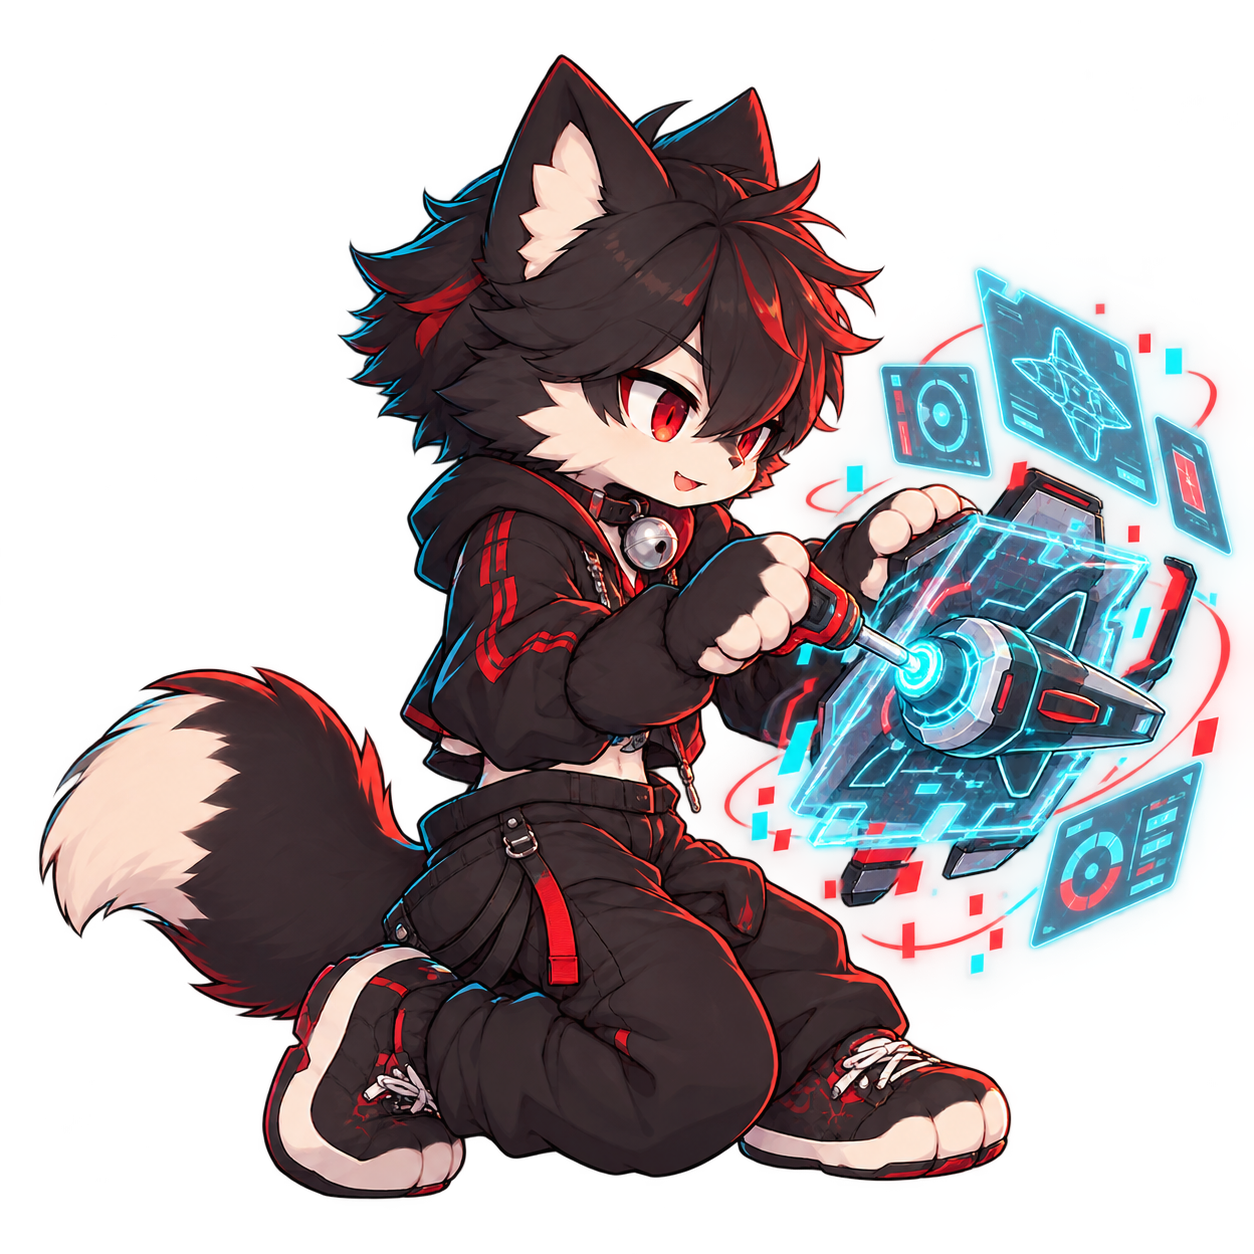
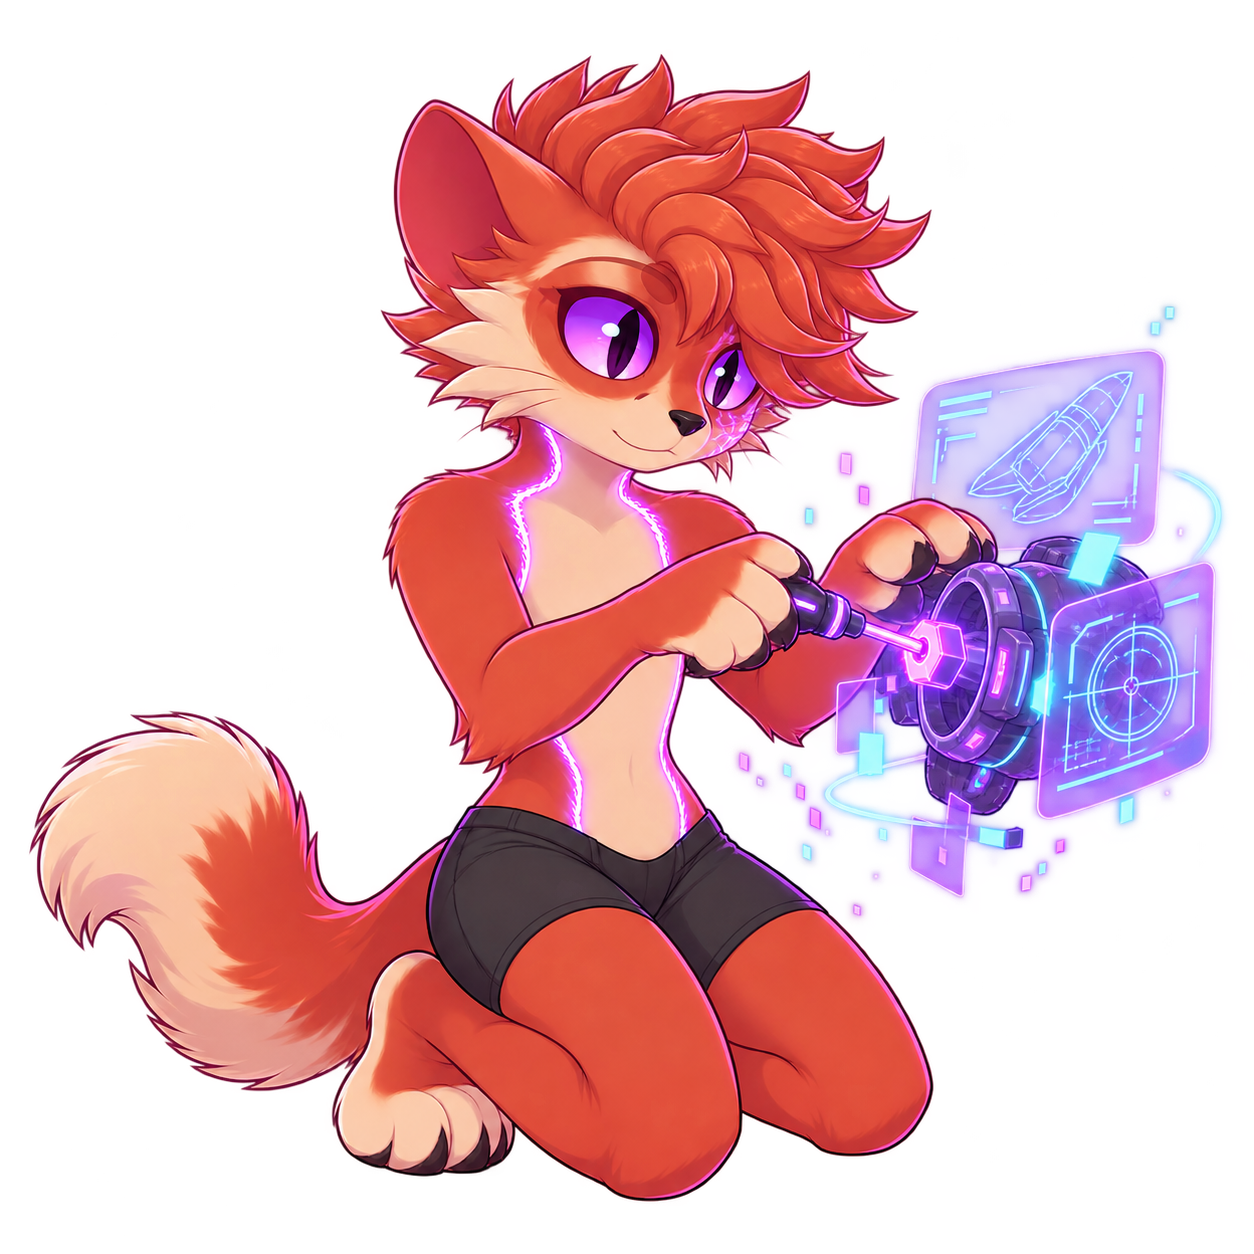
Match Mayu reference and isolate animation frames

diff --git a/src/renderer/components/MayuLoader.jsx b/src/renderer/components/MayuLoader.jsx
@@ -1,8 +1,39 @@
+import { useEffect, useState } from "react";
 import { LoaderCircle } from "lucide-react";
-import mayuWalk from "../assets/mayu/mayu-walk.png";
+import mayuWalk1 from "../assets/mayu/mayu-walk-1.png";
+import mayuWalk2 from "../assets/mayu/mayu-walk-2.png";
+import mayuWalk3 from "../assets/mayu/mayu-walk-3.png";
+import mayuWalk4 from "../assets/mayu/mayu-walk-4.png";
+import mayuWalk5 from "../assets/mayu/mayu-walk-5.png";
+import mayuWalk6 from "../assets/mayu/mayu-walk-6.png";
 import mayuUpdate from "../assets/mayu/mayu-update.png";
 
+const walkFrames = [
+  mayuWalk1,
+  mayuWalk2,
+  mayuWalk3,
+  mayuWalk4,
+  mayuWalk5,
+  mayuWalk6,
+];
+
 export function MayuLoader({ mode = "walk", label, compact = false }) {
+  const [frame, setFrame] = useState(0);
+  useEffect(() => {
+    if (mode !== "walk") return undefined;
+    const reduced =
+      document.documentElement.dataset.motion === "reduced" ||
+      window.matchMedia?.("(prefers-reduced-motion: reduce)").matches;
+    if (reduced) {
+      setFrame(0);
+      return undefined;
+    }
+    const timer = window.setInterval(
+      () => setFrame((current) => (current + 1) % walkFrames.length),
+      130,
+    );
+    return () => window.clearInterval(timer);
+  }, [mode]);
   return (
     <div
       className={`mayu-loader mayu-loader-${mode} ${compact ? "compact" : ""}`}
@@ -11,10 +42,7 @@ export function MayuLoader({ mode = "walk", label, compact = false }) {
         {mode === "update" ? (
           <img src={mayuUpdate} alt="" />
         ) : (
-          <div
-            className="mayu-walk-sprite"
-            style={{ backgroundImage: `url(${mayuWalk})` }}
-          />
+          <img className="mayu-walk-frame" src={walkFrames[frame]} alt="" />
         )}
       </div>
       <LoaderCircle className="mayu-loader-fallback spin" aria-hidden="true" />

diff --git a/src/renderer/space-glass.css b/src/renderer/space-glass.css
@@ -1269,16 +1269,15 @@ html[data-density="compact"] .settings-panel {
   place-items: center;
   width: 110px;
   height: 220px;
+  overflow: hidden;
   filter: drop-shadow(0 16px 26px rgba(0, 0, 0, 0.34));
 }
 
-.mayu-walk-sprite {
+.mayu-walk-frame {
+  display: block;
   width: 110px;
   height: 220px;
-  background-repeat: no-repeat;
-  background-position: 0 0;
-  background-size: 600% 100%;
-  animation: mayu-walk-cycle 0.78s linear infinite;
+  object-fit: contain;
 }
 
 .mayu-loader.compact {
@@ -1291,7 +1290,7 @@ html[data-density="compact"] .settings-panel {
   height: 104px;
 }
 
-.mayu-loader.compact .mayu-walk-sprite {
+.mayu-loader.compact .mayu-walk-frame {
   width: 52px;
   height: 104px;
 }
@@ -1341,33 +1340,6 @@ html[data-mayu-loaders="off"] .update-flight-scene .mayu-loader-fallback {
   display: none;
 }
 
-@keyframes mayu-walk-cycle {
-  0%,
-  16% {
-    background-position: 0 0;
-  }
-  16.1%,
-  32% {
-    background-position: 20% 0;
-  }
-  32.1%,
-  48% {
-    background-position: 40% 0;
-  }
-  48.1%,
-  64% {
-    background-position: 60% 0;
-  }
-  64.1%,
-  80% {
-    background-position: 80% 0;
-  }
-  80.1%,
-  100% {
-    background-position: 100% 0;
-  }
-}
-
 @keyframes mayu-work-hover {
   50% {
     transform: translateY(-6px) rotate(-0.8deg);
@@ -1384,7 +1356,6 @@ html[data-motion="reduced"] *::after {
 }
 
 @media (prefers-reduced-motion: reduce) {
-  .mayu-walk-sprite,
   .mayu-loader-update .mayu-loader-art {
     animation: none !important;
   }

diff --git a/tests/desktop-enhancements.test.js b/tests/desktop-enhancements.test.js
@@ -15,6 +15,7 @@ test("desktop enhancements cover notifications, drafts, reminders, and privacy",
     "DesktopEnhancements.jsx",
   );
   const settings = read("src", "renderer", "components", "AppSettings.jsx");
+  const mayuLoader = read("src", "renderer", "components", "MayuLoader.jsx");
   const messages = read("src", "renderer", "pages", "MessagesPageV2.jsx");
   const profile = read(
     "src",
@@ -36,6 +37,9 @@ test("desktop enhancements cover notifications, drafts, reminders, and privacy",
   assert.match(preferences, /glassIntensity/);
   assert.match(preferences, /enterToSend/);
   assert.match(preferences, /showMayuLoaders/);
+  assert.match(mayuLoader, /mayu-walk-6\.png/);
+  assert.match(mayuLoader, /src=\{walkFrames\[frame\]\}/);
+  assert.doesNotMatch(mayuLoader, /backgroundImage/);
   assert.match(messages, /Search messages/);
   assert.match(profile, /Report a concern/);
 });
